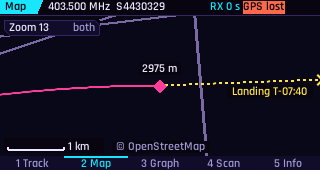
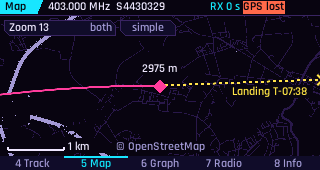
docs: mockup screenshots of every screen for the READMEs and the store
- sc_render draws the Radio screen (listening, decoding) with a made-up
  spectrum, uses a tile cache for the map shots, and with
  SC_RENDER_MISSING lists the tiles those shots need
- READMEs (EN, VI): a 2x mockup gallery of all screens, plus the real
  device captures; the store lists the decoding Radio screen
- Radio top bar: shorter texts that no longer wrap or run into the status
- demo band overview: its sonde sits on 403.000 MHz like the demo flight

Claude-Session: https://claude.ai/code/session_01NC5LhUc5V3FGkxE6anuYHf

diff --git a/tools/render.c b/tools/render.c
@@ -3,9 +3,12 @@
 #define _GNU_SOURCE
 #include "lvgl.h"
 #include "ui.h"
+#include <math.h>
 #include <stdio.h>
+#include <stdlib.h>
 #include <string.h>
 #include <time.h>
+#include <unistd.h>
 
 #define W 320
 #define H 170
@@ -36,6 +39,12 @@ static void shot(const char *name)
     app_poll(&app);
     lv_obj_invalidate(lv_screen_active());
     lv_refr_now(disp);
+    for (i = 0; app.cfg.tile_online && i < 40; i++) { /* two downloads at a time: let all be listed */
+        usleep(20000);
+        app_poll(&app);
+        lv_obj_invalidate(lv_screen_active());
+        lv_refr_now(disp);
+    }
     snprintf(p, sizeof p, "%s/%s.ppm", out_dir, name);
     f = fopen(p, "wb");
     if (!f) return;
@@ -47,6 +56,24 @@ static void shot(const char *name)
     }
     fclose(f);
     printf("%s\n", p);
+}
+
+/* The Radio screen's spectrum around f_hz, made up (no dongle here): noise, the sonde at f_hz and a weaker
+ * carrier 215 kHz above. */
+static void mock_live(long f_hz)
+{
+    long centre = f_hz - RS41_TUNE_OFFSET_HZ + DDC_RATE / 4;
+    unsigned r = 777u;
+    int i;
+    spec_reset(&app.live, centre - DDC_RATE / 2, centre + DDC_RATE / 2, DDC_RATE / SWEEP_FFT);
+    for (i = 0; i < app.live.n; i++) {
+        double f = (double)app.live.f0 + (double)i * (double)app.live.step, db;
+        r = r * 1103515245u + 12345u;
+        db = -50.0 + ((r >> 16) & 0xff) / 255.0 * 4.0;
+        db += 30.0 * exp(-pow((f - f_hz) / 4500.0, 2)) + 9.0 * exp(-pow((f - f_hz - 215000.0) / 3000.0, 2));
+        app.live.db[i] = (float)db;
+        app.live.ok[i] = 1;
+    }
 }
 
 /* Place this device d metres from the sonde so that the bearing to the sonde is brg. */
@@ -72,6 +99,10 @@ int main(int argc, char **argv)
     snprintf(app.cfg.font_dir, sizeof app.cfg.font_dir, "%s", argv[2]);
     snprintf(app.cfg.tile_dir, sizeof app.cfg.tile_dir, "%s", argv[3]);
     app.cfg.tile_online = 0; /* the tool never touches the network */
+    if (getenv("SC_RENDER_MISSING") && *getenv("SC_RENDER_MISSING")) { /* list the tiles the shots need, to fetch them separately */
+        app.cfg.tile_online = 1;
+        snprintf(app.cfg.tile_fetch_cmd, sizeof app.cfg.tile_fetch_cmd, "echo '{url}' >> '%s'; exit 1", getenv("SC_RENDER_MISSING"));
+    }
     if (argc > 4) snprintf(app.cfg.tile_cache_dir, sizeof app.cfg.tile_cache_dir, "%s", argv[4]);
     tf_init(&app.tf, &app.cfg);
     app.cfg.zoom_min = 9;
@@ -122,6 +153,15 @@ int main(int argc, char **argv)
     ui_key(K_RIGHT); shot("03_graph_flight");
     ui_key(K_LEFT);
     ui_key('8'); shot("05_info");
+
+    /* Radio screen tuned to the sonde. demo mode never reads from dsdr; the UI only needs it set. */
+    mock_live(app.freq_hz);
+    app.dsdr = (sdr_t *)&app;
+    app.state = ST_LISTEN;
+    ui_key('7'); shot("04_radio_listen");
+    app.state = ST_DECODE;
+    shot("04_radio_decode");
+    app.dsdr = NULL;
     place_me(2400.0, 60.0); /* inside the beeper radius, sonde ahead-right */
     ui_key('4'); shot("01_track_near");
 

diff --git a/src/ui.c b/src/ui.c
@@ -850,9 +850,9 @@ static void p_scan_live(void)
     lo = sp->floor_db - 4;
     hi = sp->max_db > sp->floor_db + 26 ? sp->max_db + 4 : sp->floor_db + 30;
     if (A->state == ST_LISTEN)
-        snprintf(mid, sizeof mid, "%.3f MHz   %s", A->freq_hz / 1e6, kn ? "listening, RS41 seen here" : "listening");
+        snprintf(mid, sizeof mid, "%.3f MHz   listening", A->freq_hz / 1e6); /* a known sonde has its label below */
     else if (kn && sc_now() - kn->t <= A->cfg.stale_s)
-        snprintf(mid, sizeof mid, "%.3f MHz   RS41 %s   receiving", A->freq_hz / 1e6, kn->id);
+        snprintf(mid, sizeof mid, "%.3f MHz   RS41 %s", A->freq_hz / 1e6, kn->id); /* RX n s on the right */
     else
         snprintf(mid, sizeof mid, "%.3f MHz   decoding", A->freq_hz / 1e6);
     top_bar("Radio", C_CY, mid);

diff --git a/src/demo.c b/src/demo.c
@@ -94,7 +94,7 @@ static void demo_scan(app_t *a)
         double f = (double)s->f0 + (double)i * (double)s->step, db;
         r = r * 1103515245u + 12345u;
         db = -42.0 + ((r >> 16) & 0xff) / 255.0 * 3.0;
-        db += 20.0 * exp(-pow((f - 403.5e6) / 9000.0, 2)) + 11.0 * exp(-pow((f - 401.1e6) / 9000.0, 2));
+        db += 20.0 * exp(-pow((f - 403.0e6) / 9000.0, 2)) + 11.0 * exp(-pow((f - 401.1e6) / 9000.0, 2)); /* sonde, other */
         s->db[i] = (float)db;
         s->ok[i] = 1;
     }

diff --git a/README.md b/README.md
@@ -10,15 +10,26 @@ device with a live RS41 (Y0532351). GPS chasing in the field has not been tried 
 
 | | |
 |---|---|
-| ![Spectrum, tuned view: listening on 100.000 MHz](screenshots/device/scan-tuned.png) | ![Spectrum, band overview with the cursor on 403.120 MHz](screenshots/device/scan-band-overview.png) |
-| **Spectrum, tuned**: listening, Enter starts the decoder (a broadcast FM station here, to show a real signal) | **Spectrum, band overview** (`S`): a free cursor, Enter listens there |
-| ![Track screen: sonde telemetry before its GPS has a fix](screenshots/device/track-sonde-no-gps-fix.png) | ![Map screen with OpenStreetMap tiles](screenshots/device/map-default-area.png) |
-| **Track**: sonde Y0532351 still waiting for its GPS fix | **Map**: OpenStreetMap tiles, recolored |
-| ![Holding Esc: quit countdown](screenshots/device/hold-esc-to-quit.png) | ![SondeChase in the APPLaunch launcher](screenshots/device/launcher.png) |
-| **Hold `Esc`** to quit | **APPLaunch** launcher entry |
+| ![Track screen: compass, distance and bearing to the sonde](screenshots/mockup/track.png) | ![Map screen, simple style: water and roads only](screenshots/mockup/map.png) |
+| **Track**: distance, bearing and elevation to the sonde, landing prediction | **Map**: simple style (water and roads), flight track, landing point |
+| ![Radio screen decoding an RS41](screenshots/mockup/radio-decoding.png) | ![Radio screen, band overview with a free cursor](screenshots/mockup/band-overview.png) |
+| **Radio**: tuned spectrum, NFM audio, `Enter` decodes | **Radio, band overview** (`S`): arrow keys move the cursor, `Enter` listens |
+| ![Skew-T log-P diagram of the sounding](screenshots/mockup/skew-t.png) | ![Altitude and vertical speed over time](screenshots/mockup/flight.png) |
+| **Graph**: Skew-T log-P of the sounding | **Graph**: altitude and vertical speed, burst marked |
+| ![Info screen: sonde, reception, this device](screenshots/mockup/info.png) | ![Balloon burst alert](screenshots/mockup/burst.png) |
+| **Info**: sonde, reception, this device, landing coordinates | **Burst alert**: falling speed, time and distance to landing |
 
-Screenshots are read from `/dev/fb0` of a running CardputerZero, shown at 2×. The spectrum captures were taken with
-the RTL-SDR Blog V4 and no sonde in the air.
+These are mockups: the app's own UI code (`tools/render.c`) drawing a simulated flight, the radio spectrum made up,
+the map from OpenStreetMap tiles. Shown at 2×.
+
+On the device (framebuffer captures, 2×):
+
+| | |
+|---|---|
+| ![Track screen: sonde telemetry before its GPS has a fix](screenshots/device/track-sonde-no-gps-fix.png) | ![SondeChase in the APPLaunch launcher](screenshots/device/launcher.png) |
+| **Track**: a real RS41 (Y0532351) still waiting for its GPS fix | **APPLaunch** launcher entry |
+| ![Holding Esc: quit countdown](screenshots/device/hold-esc-to-quit.png) | ![Radio screen listening to a broadcast FM station](screenshots/device/scan-tuned.png) |
+| **Hold `Esc`** to quit | **Radio** with a real RTL-SDR Blog V4, on a broadcast FM station (no sonde in the air) |
 
 ## Architecture
 
@@ -235,8 +246,10 @@ cmake -S . -B build-render -DSC_RENDER=ON && cmake --build build-render -j
 ./build-render/sc_render <output dir> assets/fonts <tile dir>     # writes .ppm files
 ```
 
-The images directly in `screenshots/` (used by `app-builder.json`) come from this tool with demo data; the map
-background there is synthetic. `screenshots/device/` holds the framebuffer captures from the real device shown above.
+The images directly in `screenshots/` (used by `app-builder.json`) and the 2× mockups in `screenshots/mockup/`
+come from this tool with demo data. Map tiles come from the download cache passed as the fourth argument;
+`SC_RENDER_MISSING=<file>` lists the tiles the shots need instead of drawing an empty grid.
+`screenshots/device/` holds the framebuffer captures from the real device shown above.
 
 PC build for interacting with the UI: `cmake -S . -B build-sim -DSC_SIM=ON` (needs `libsdl2-dev`; untested).
 Core only, with tests: `cmake -S . -B build -DSC_BUILD_UI=OFF && cmake --build build && ctest --test-dir build`.
